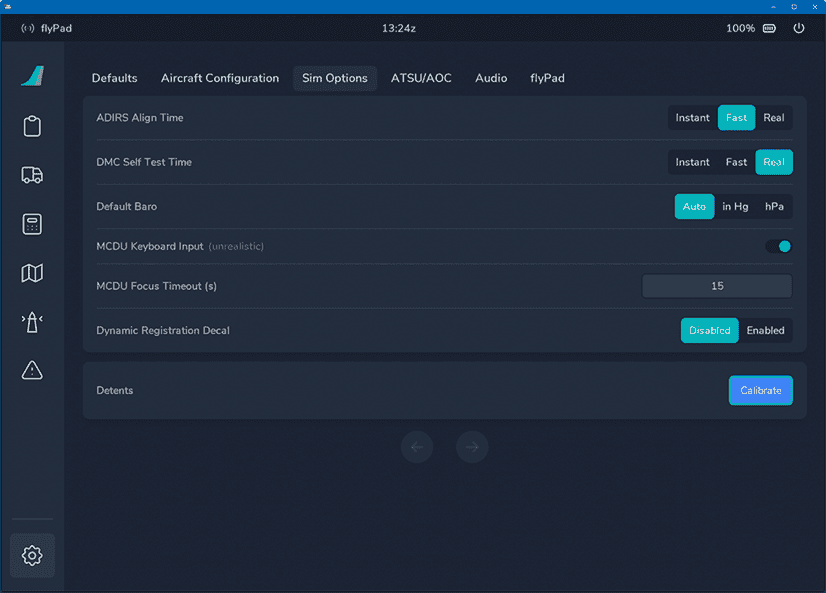
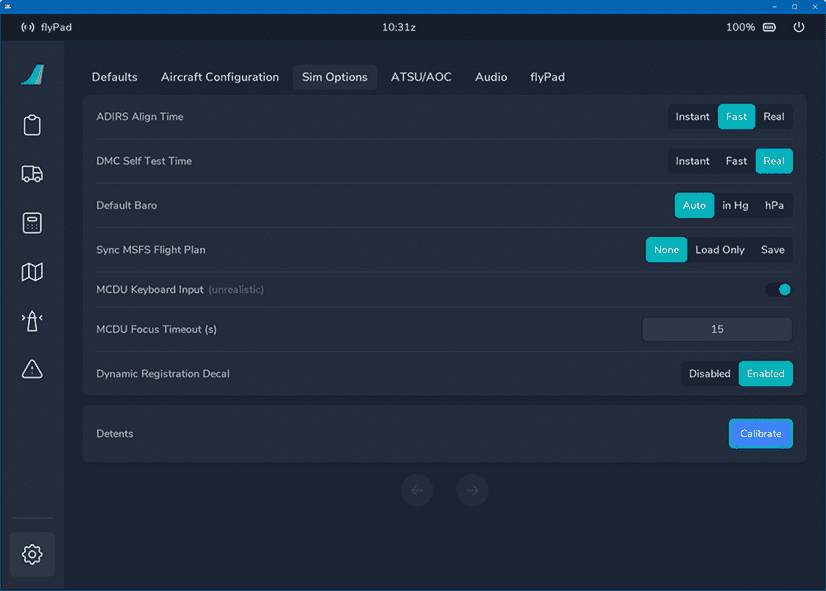
Update to EFB Settings guide to include F-PLN synch setting

diff --git a/docs/fbw-a32nx/feature-guides/flyPad/settings.md b/docs/fbw-a32nx/feature-guides/flyPad/settings.md
@@ -90,6 +90,16 @@ Settings for simulation aspects of the A32NX aircraft.
     - User can set the time for the Display Management Computer's self test (Real ~15sec, Fast ~5sec, Instant).
 - Default Baro:
     - User can set which baro setting he wants to have as a default: inHg, hPA or Auto (depends on the airport where the aircraft spawned).
+- Sync MSFS Flight Plan:
+    - User can set if and how the flight plan synchronization between the simulator and the aircraft should work.
+    - The options are:
+        - None: No synchronization.
+        - Load Only: Only once when loading the flight.
+        - Save: Synchronization with every change in the aircraft
+
+        !!! warning "Synchronization Issues Expected"
+            The aircraft's custom Flight Management System provides better accuracy and features over the default flight plan manager in Microsoft Flight simulator which results in issues syncing the flight plan from the MCDU back into the simulator. Do not expect it to work properly in all cases.
+
 - MCDU Keyboard Input (unrealistic)
     - Enables the MCDU Keyboard input feature (see [MCDU Keyboard](../mcdu-keyboard.md)).
 - MCDU Focus Timeout (s)
@@ -131,9 +141,9 @@ Settings for integrations with various data and information sources.
 
         !!! warning
             If enabled, aircraft position data is published for the duration of the flight. Messages are public and not moderated.
-  
+
             ~~USE AT YOUR OWN RISK~~
-    
+
             [Free Text - Feature Guide](../freetext.md){.md-button}
 
     - If enabled a message will be displayed to confirm sharing of the free text and position data to the public.
